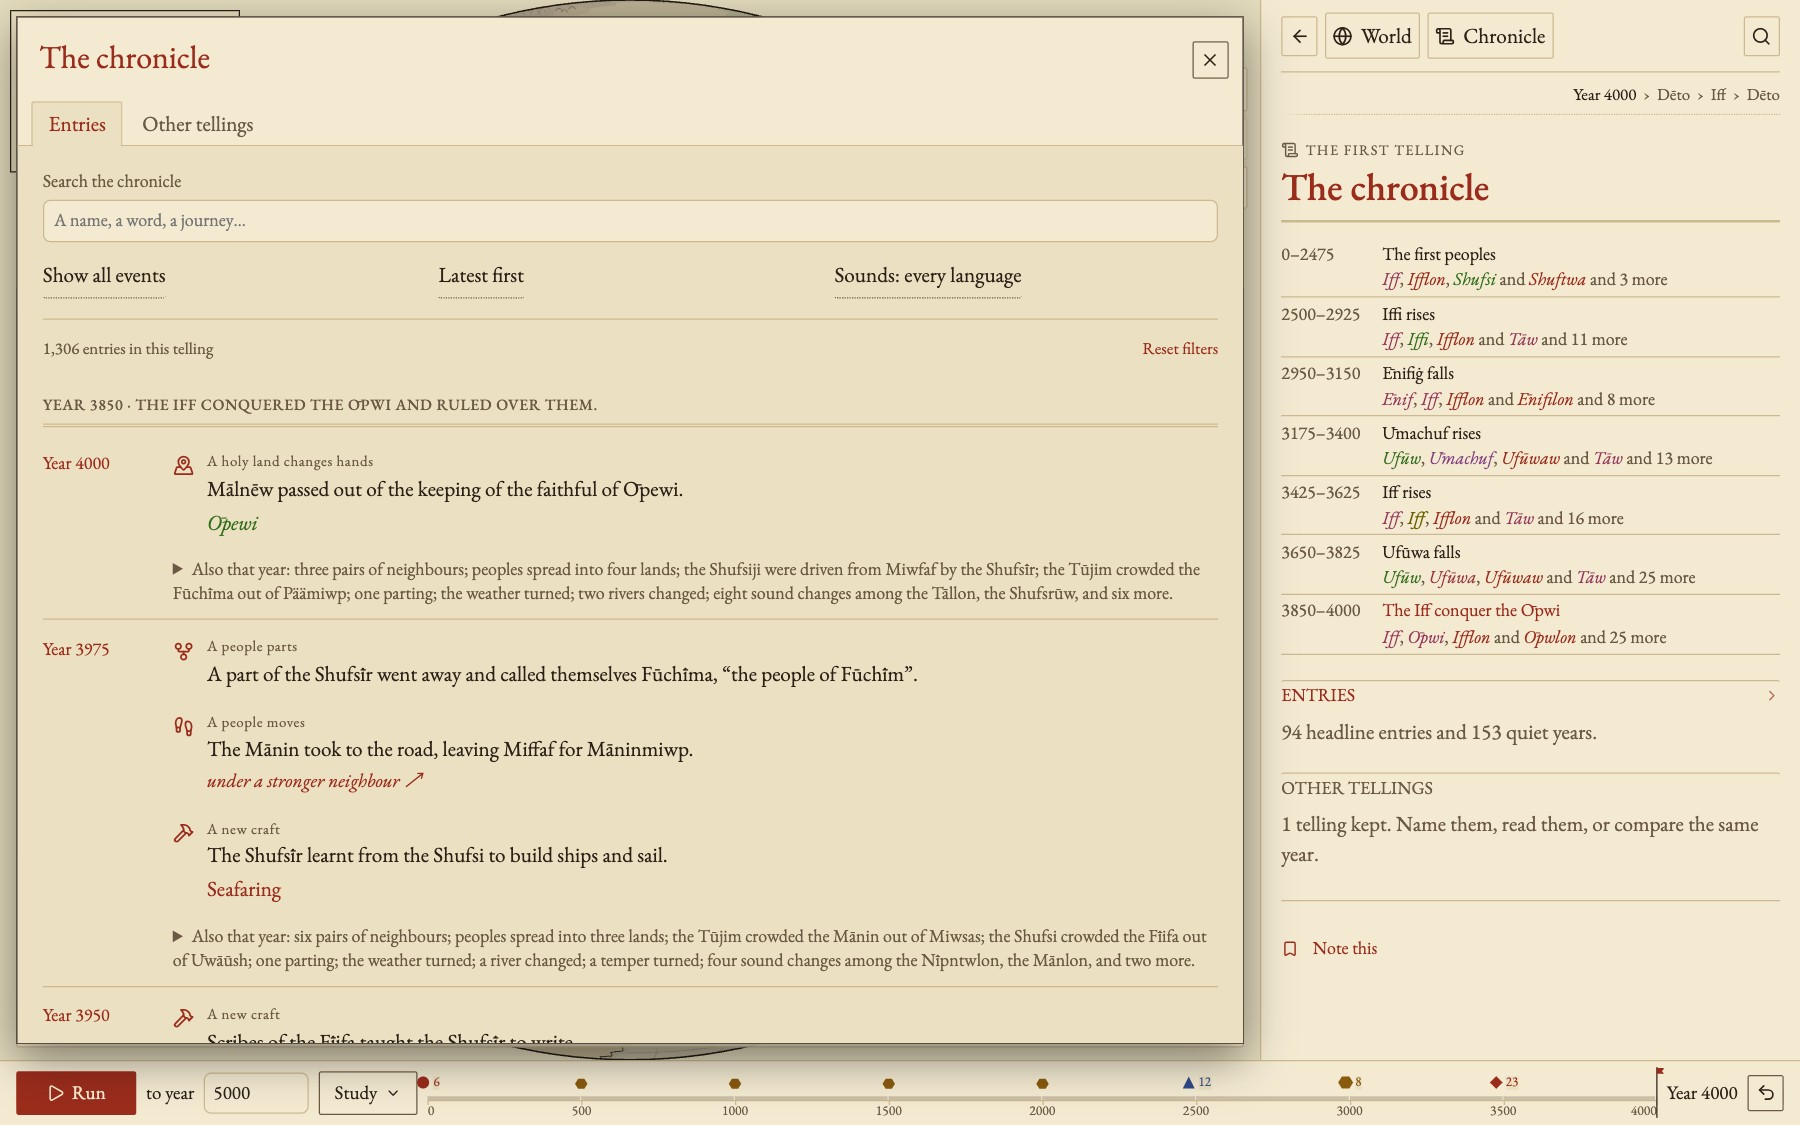
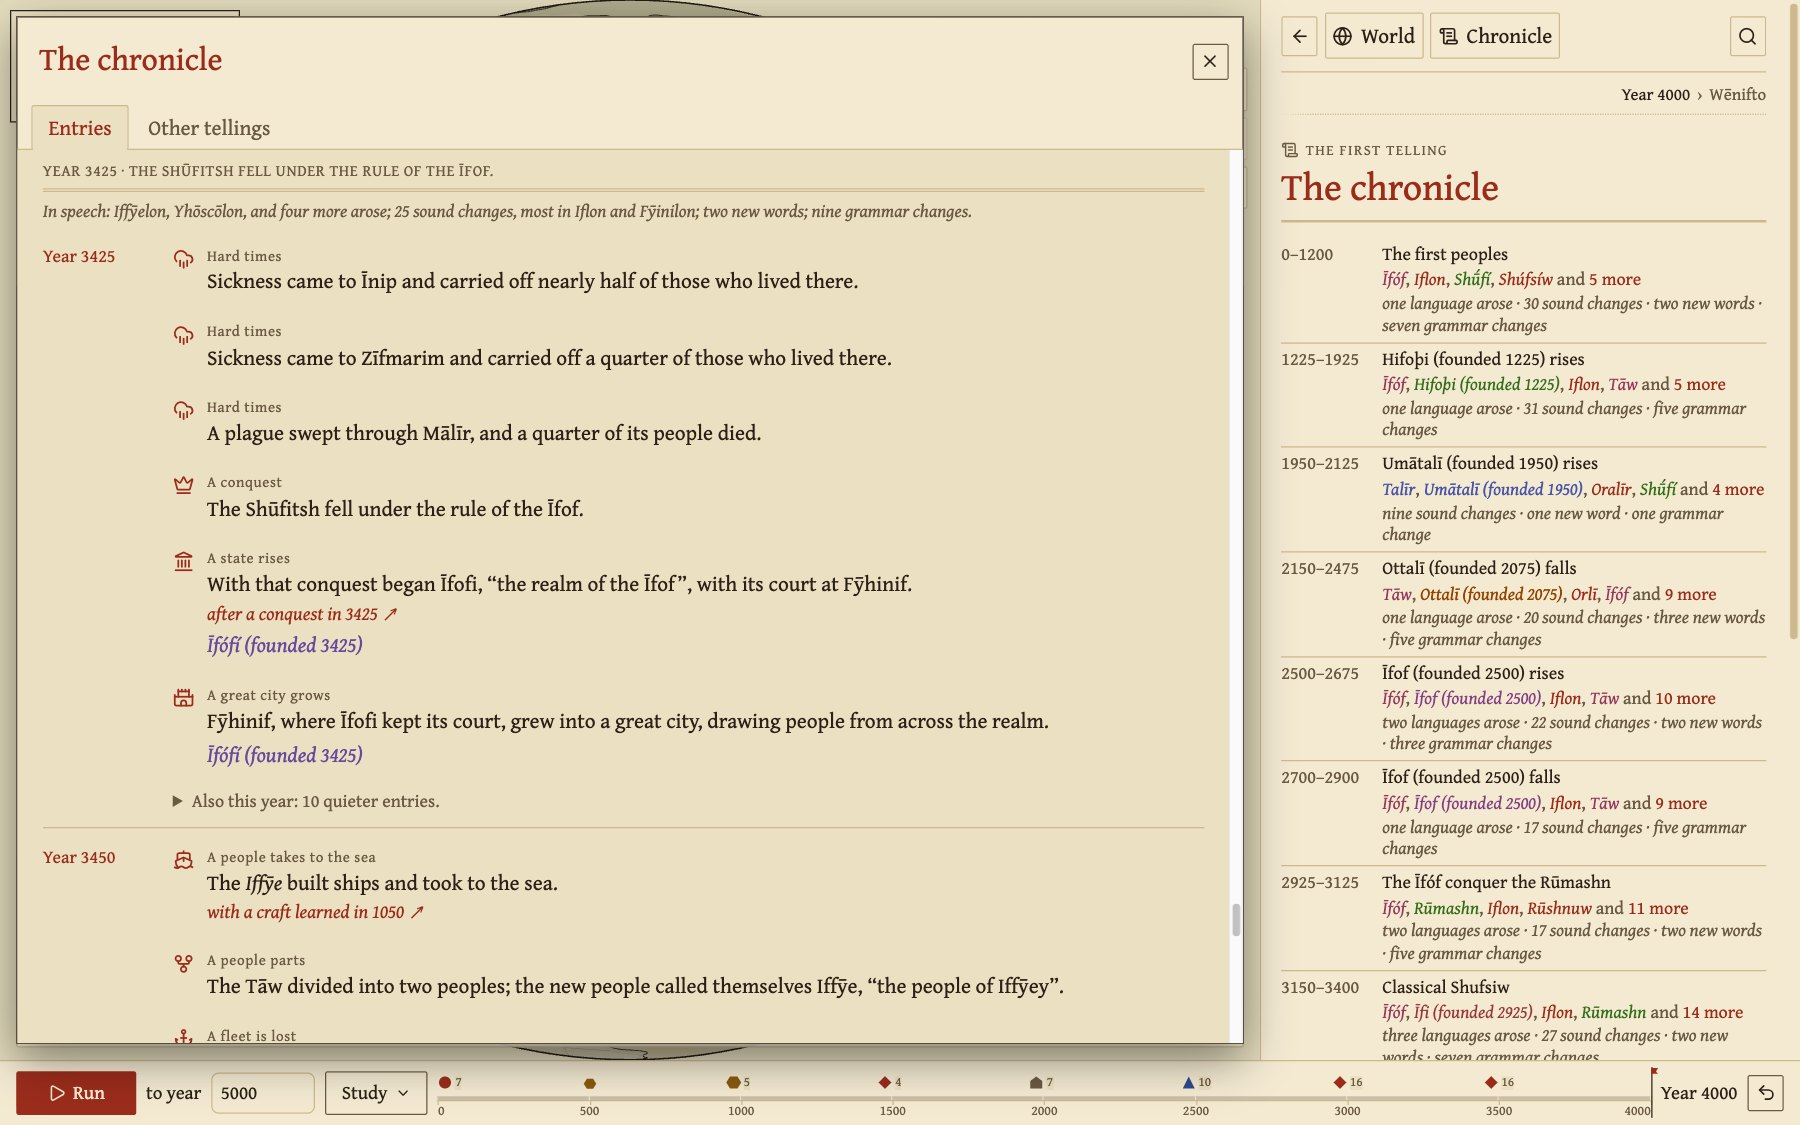
docs: retake the stage and chronicle screenshots on revision 57

diff --git a/README.md b/README.md
@@ -65,7 +65,7 @@ recovery. Their old flat-map land IDs cannot be replayed on the new sphere.
 Spherical saves retain their recorded geography when opened, exported, or
 branched; a new terrain generator does not redraw an existing world.
 
-![The workbench after 4,000 years: the inked globe turned toward the sample's peoples, a city's gazetteer card open over it, beside the world's card, with its chronicle caption and timeline below](docs/images/stage.jpg)
+![The workbench after 4,000 years: the inked globe turned toward the sample's peoples, a state's card pinned over it, beside the world's card, with its chronicle caption and timeline below](docs/images/stage.jpg)
 
 ## What happens in a world
 
@@ -198,7 +198,7 @@ links leave focus alone. A single 25-year advance or intervention briefly
 marks changed holdings and new state borders, while playback keeps the chart
 quiet. The system's reduced-motion setting makes all these changes immediate.
 
-![The chronicle laid over the chart, read in eras: headline entries at full weight and each year's bookkeeping folded into one line](docs/images/chronicle.jpg)
+![The chronicle laid over the chart, read in eras from the beginning: an era opened by a conquest, its line on speech, and headline entries at full weight, beside the contents card listing each era with its speech in counts](docs/images/chronicle.jpg)
 
 | | |
 |---|---|
